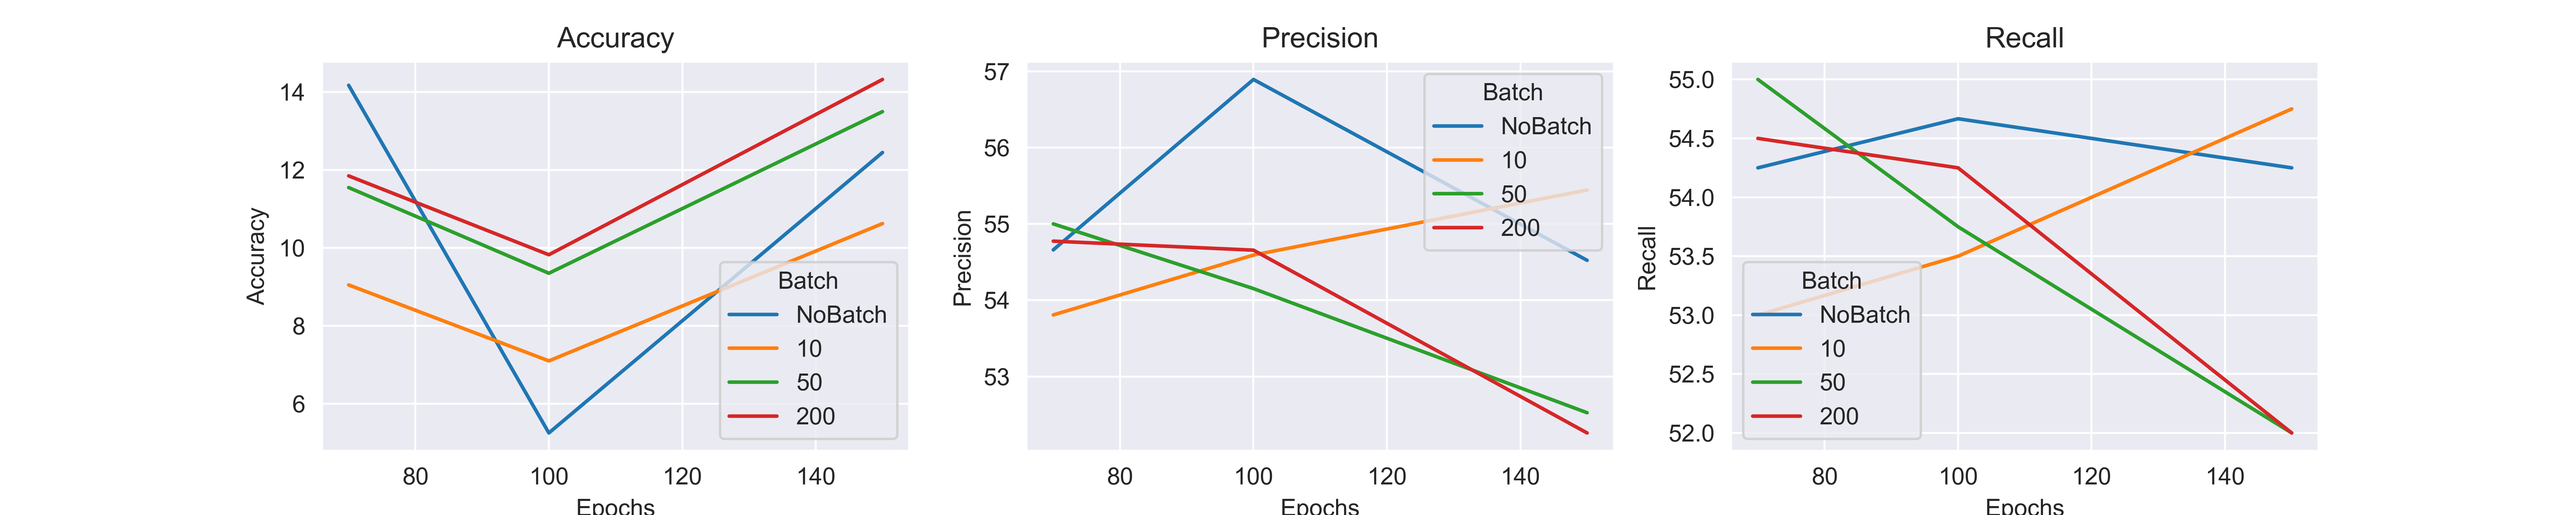
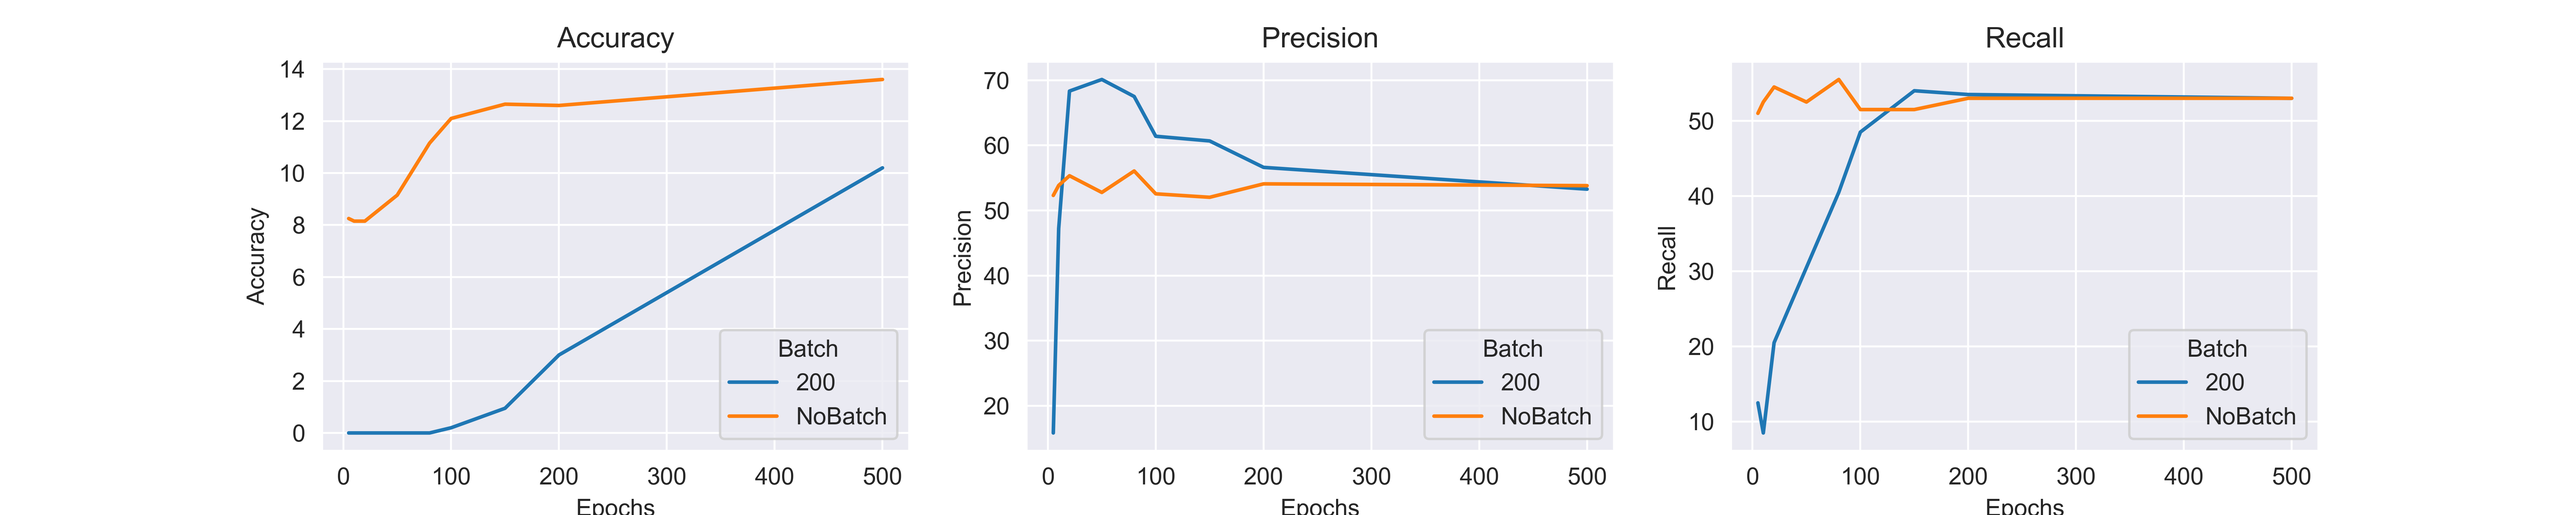
NN

diff --git a/01_NN_Script.py b/01_NN_Script.py
@@ -11,48 +11,29 @@ This script contains
     * DataViz import to plot the metrics
     
 """
-
-
-
+# Libraries
 import tensorflow as tf
-print('Using TensorFlow version', tf.__version__)
 from tensorflow.keras.utils import to_categorical
 from matplotlib import pyplot as plt
 import numpy as np
 from tensorflow.keras.models import Sequential
-from tensorflow.keras.layers import Dense
+from tensorflow.keras.layers import Dense, Dropout
 from sklearn.preprocessing import LabelEncoder
-from sklearn.model_selection import train_test_split`
+from sklearn.model_selection import train_test_split
 from tensorflow.keras.metrics import Recall, Precision, Accuracy
 import FunctionsDataViz
+import FunctionsNN
 
 #%% Table with the results
-all_results = pd.DataFrame(columns=['Model', 'Accuracy', 'Precision', 'Recall'])
-
-
-#%% Modèle 1 : Modèle de NN avec 30  Moyennes des MFCCS en input 
-
-model1 = Sequential( [ 
-    Dense(30, activation='relu', input_shape=(30,)), #Hidden dense layer (fully connected with ReLu activation)
-    Dense(20, activation='relu'), #Input shape implied automatically
-    Dense(15, activation='linear'),
-    Dense(10, activation='linear'),
-    Dense(10, activation='softmax')
-])
-
-model1.compile(
-    optimizer='adam',
-    loss='categorical_crossentropy',
-    metrics=[Accuracy(), Precision(), Recall()]    
-)
-
-
-model1.summary()
+all_results = pd.DataFrame(columns=['Model','Optimizer','Epochs', 'Batch',
+                                    'Test_Accuracy', 'Test_Precision', 'Test_Recall'])
 
 #%%
 """
 Prepare the data
 """
+#Features
+X = mean_mfccs
 
 #One hot encoding on the labels 
 encoder = LabelEncoder()
@@ -62,43 +43,35 @@ encoded_Y = encoder.transform(paths_df['genre'])
 #Get the classes of the encoder
 classes= encoder.classes_.tolist()
 
-#Features and labels
-y = to_categorical(encoded_Y)
-X = mean_mfccs
-
-#Train/Test split
-X_train, X_test, y_train, y_test = train_test_split(X, y, test_size=0.20, random_state=42)
-
-#%%
+#Hyperparameters
+n_epochsList = [800]
+n_batchList = [None]  
+    
+#%% 
 """
-Hyperparameters optimization
+Modèle 1 : Modèle de NN avec 30  Moyennes des MFCCS en input 
 """
-#Hyperparameter 
-n_epochsList = [100, 150, 70]
-n_batchList = [None, 10, 50, 200]
 
-i=1
-for n_epochs in n_epochsList:
-    print('Epoch {}/{}'.format(i, len(n_epochsList)))
-    j=1
-    for n_batch in n_batchList:
-        print('Batch {}/{}'.format(j, len(n_batchList)))
-        # Fit model on train sample
-        model1.fit(X_train, y_train, epochs=n_epochs, batch_size=n_batch, verbose=0)
-        # Evaluate on test sample     
-        loss, accuracy, precision, recall = model1.evaluate(X_test, y_test)
-        all_results = all_results.append({'Model':'NN_30meanMFCCs',
-                                          'Epochs': n_epochs,
-                                          'Batch': n_batch, 
-                                          'Accuracy':accuracy*100,
-                                          'Precision':precision*100,
-                                          'Recall':recall*100}, ignore_index=True)
-        j+=1
-    i+=1
-#%%Results
+model_name= 'NN_30meanMFCCs'
+optimizer_ = 'adam'
+model_object = Sequential( [ 
+        Dense(30, activation='relu', input_shape=(30,)), #Hidden dense layer (fully connected with ReLu activation)
+        Dense(25, activation='linear'),
+        Dense(20, activation='relu'),
+        Dense(15, activation='linear'),
+        Dense(10, activation='softmax')
+        
+    ])
+model_object.compile(
+    optimizer=optimizer_,
+    loss='categorical_crossentropy',
+    metrics=[Accuracy(), Precision(), Recall()]    
+)
+model_object.summary()
 
-print(all_results)
-all_results.loc[all_results['Batch'].isna(),'Batch']='NoBatch'
-#%%
-fig = FunctionsDataViz.plot_metricsNN(all_results)
-fig.savefig('Data_viZModel1.png', dpi=500)
+
+all_results = all_results.append(FunctionsNN.fit_NeuralNetwork(X, encoded_Y,model_name,
+                                                               model_object, n_epochsList,
+                                                               n_batchList, optimizer_,
+                                                               save_plot=False)) 
+

diff --git a/FunctionsNN.py b/FunctionsNN.py
@@ -1,0 +1,58 @@
+#!/usr/bin/env python3
+# -*- coding: utf-8 -*-
+"""
+Keras Neural Networks Functions
+"""
+import tensorflow as tf
+from tensorflow.keras.utils import to_categorical
+from matplotlib import pyplot as plt
+import numpy as np
+from tensorflow.keras.models import Sequential
+from tensorflow.keras.layers import Dense
+from sklearn.preprocessing import LabelEncoder
+from sklearn.model_selection import train_test_split
+from tensorflow.keras.metrics import Recall, Precision, Accuracy
+import FunctionsDataViz
+import pandas as pd
+
+def fit_NeuralNetwork(X_, y_, model_name, model_object, n_epochsList, 
+                      n_batchList, optimizer_, save_plot=False):
+    #Features and labels
+    y = to_categorical(y_)
+    X = X_
+    
+    #Train/Test split
+    X_train, X_test, y_train, y_test = train_test_split(X, y, test_size=0.20, random_state=42)
+
+     #Table for the results   
+    all_results = pd.DataFrame(columns=['Model','Optimizer','Epochs', 'Batch',
+                                        'Test_Accuracy', 'Test_Precision', 'Test_Recall'])
+
+    i=1
+    for n_epochs in n_epochsList:
+        j=1
+        for n_batch in n_batchList:
+            print('Epoch {}/{} - Batch {}/{}'.format(i, len(n_epochsList), j, len(n_batchList)))
+            # Fit model on train sample
+            train_results = model_object.fit(X_train, y_train, epochs=n_epochs, batch_size=n_batch, verbose=2)
+            # Evaluate on test sample     
+            loss, accuracy, precision, recall = model_object.evaluate(X_test, y_test, verbose=0)
+            all_results = all_results.append({'Model':model_name,
+                                              'Optimizer': optimizer_,
+                                              'Epochs': n_epochs,
+                                              'Batch': n_batch, 
+                                              'Test_Accuracy':accuracy*100,
+                                              'Test_Precision':precision*100,
+                                              'Test_Recall':recall*100,
+                                              'Train_Accuracy':np.mean(train_results.history['accuracy'])*100},
+                                             ignore_index=True)
+            j+=1
+        i+=1
+    
+    all_results.loc[all_results['Batch'].isna(),'Batch']='NoBatch'
+    if save_plot:
+        fig = FunctionsDataViz.plot_metricsNN(x_='Epochs', hue_='Batch', all_results=all_results)
+        fig.savefig('Outputs/NN_metrics/Data_viZ'+model_name+'.png', dpi=500)
+        print('Plot saved')
+    
+    return all_results

diff --git a/FunctionsDataViz.py b/FunctionsDataViz.py
@@ -8,12 +8,13 @@ Functions for Data Visualization
 import seaborn as sns
 from matplotlib import pyplot as plt
 
-def plot_metricsNN(all_results):
+def plot_metricsNN(x_, hue_, all_results):
     fig, axs = plt.subplots(figsize=(15,3), ncols=3)
-    sns.lineplot(x='Epochs', y='Accuracy', hue='Batch', data=all_results, ci=None, ax=axs[0])
-    sns.lineplot(x='Epochs', y='Precision', hue='Batch', data=all_results, ci=None, ax=axs[1])
-    sns.lineplot(x='Epochs', y='Recall', hue='Batch', data=all_results, ci=None, ax=axs[2])
+    sns.lineplot(x=x_, y='Test_Accuracy', hue=hue_, data=all_results, ci=None, ax=axs[0])
+    sns.lineplot(x=x_, y='Test_Precision', hue=hue_, data=all_results, ci=None, ax=axs[1])
+    sns.lineplot(x=x_, y='Test_Recall', hue=hue_, data=all_results, ci=None, ax=axs[2])
     axs[0].set_title('Accuracy')
     axs[1].set_title('Precision')
     axs[2].set_title('Recall')
     return fig
+
